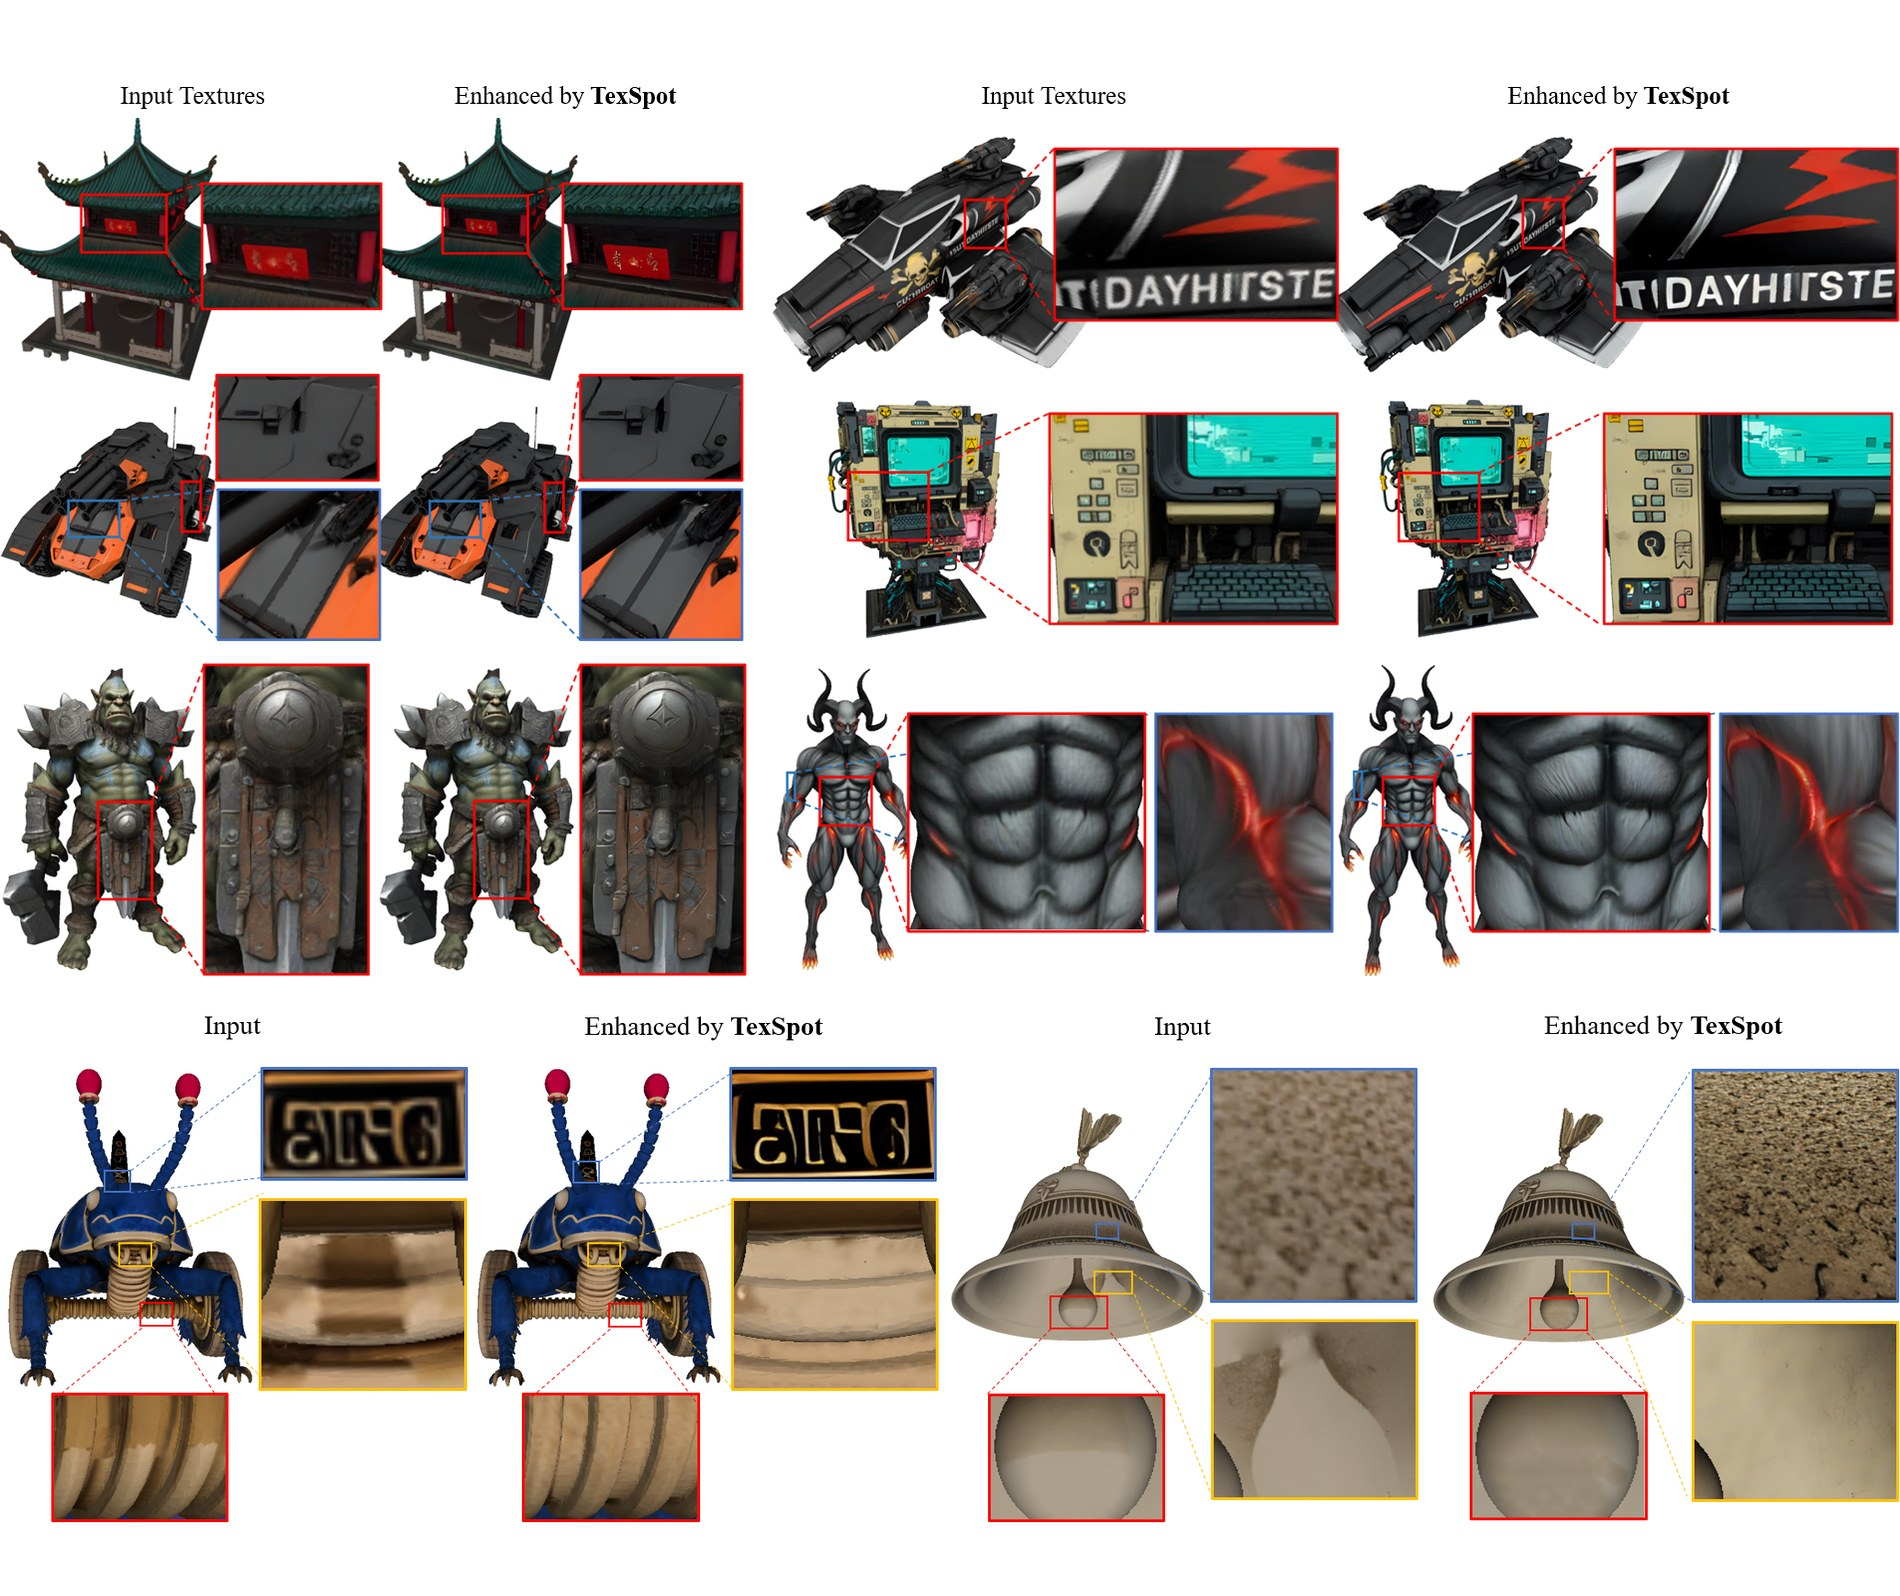
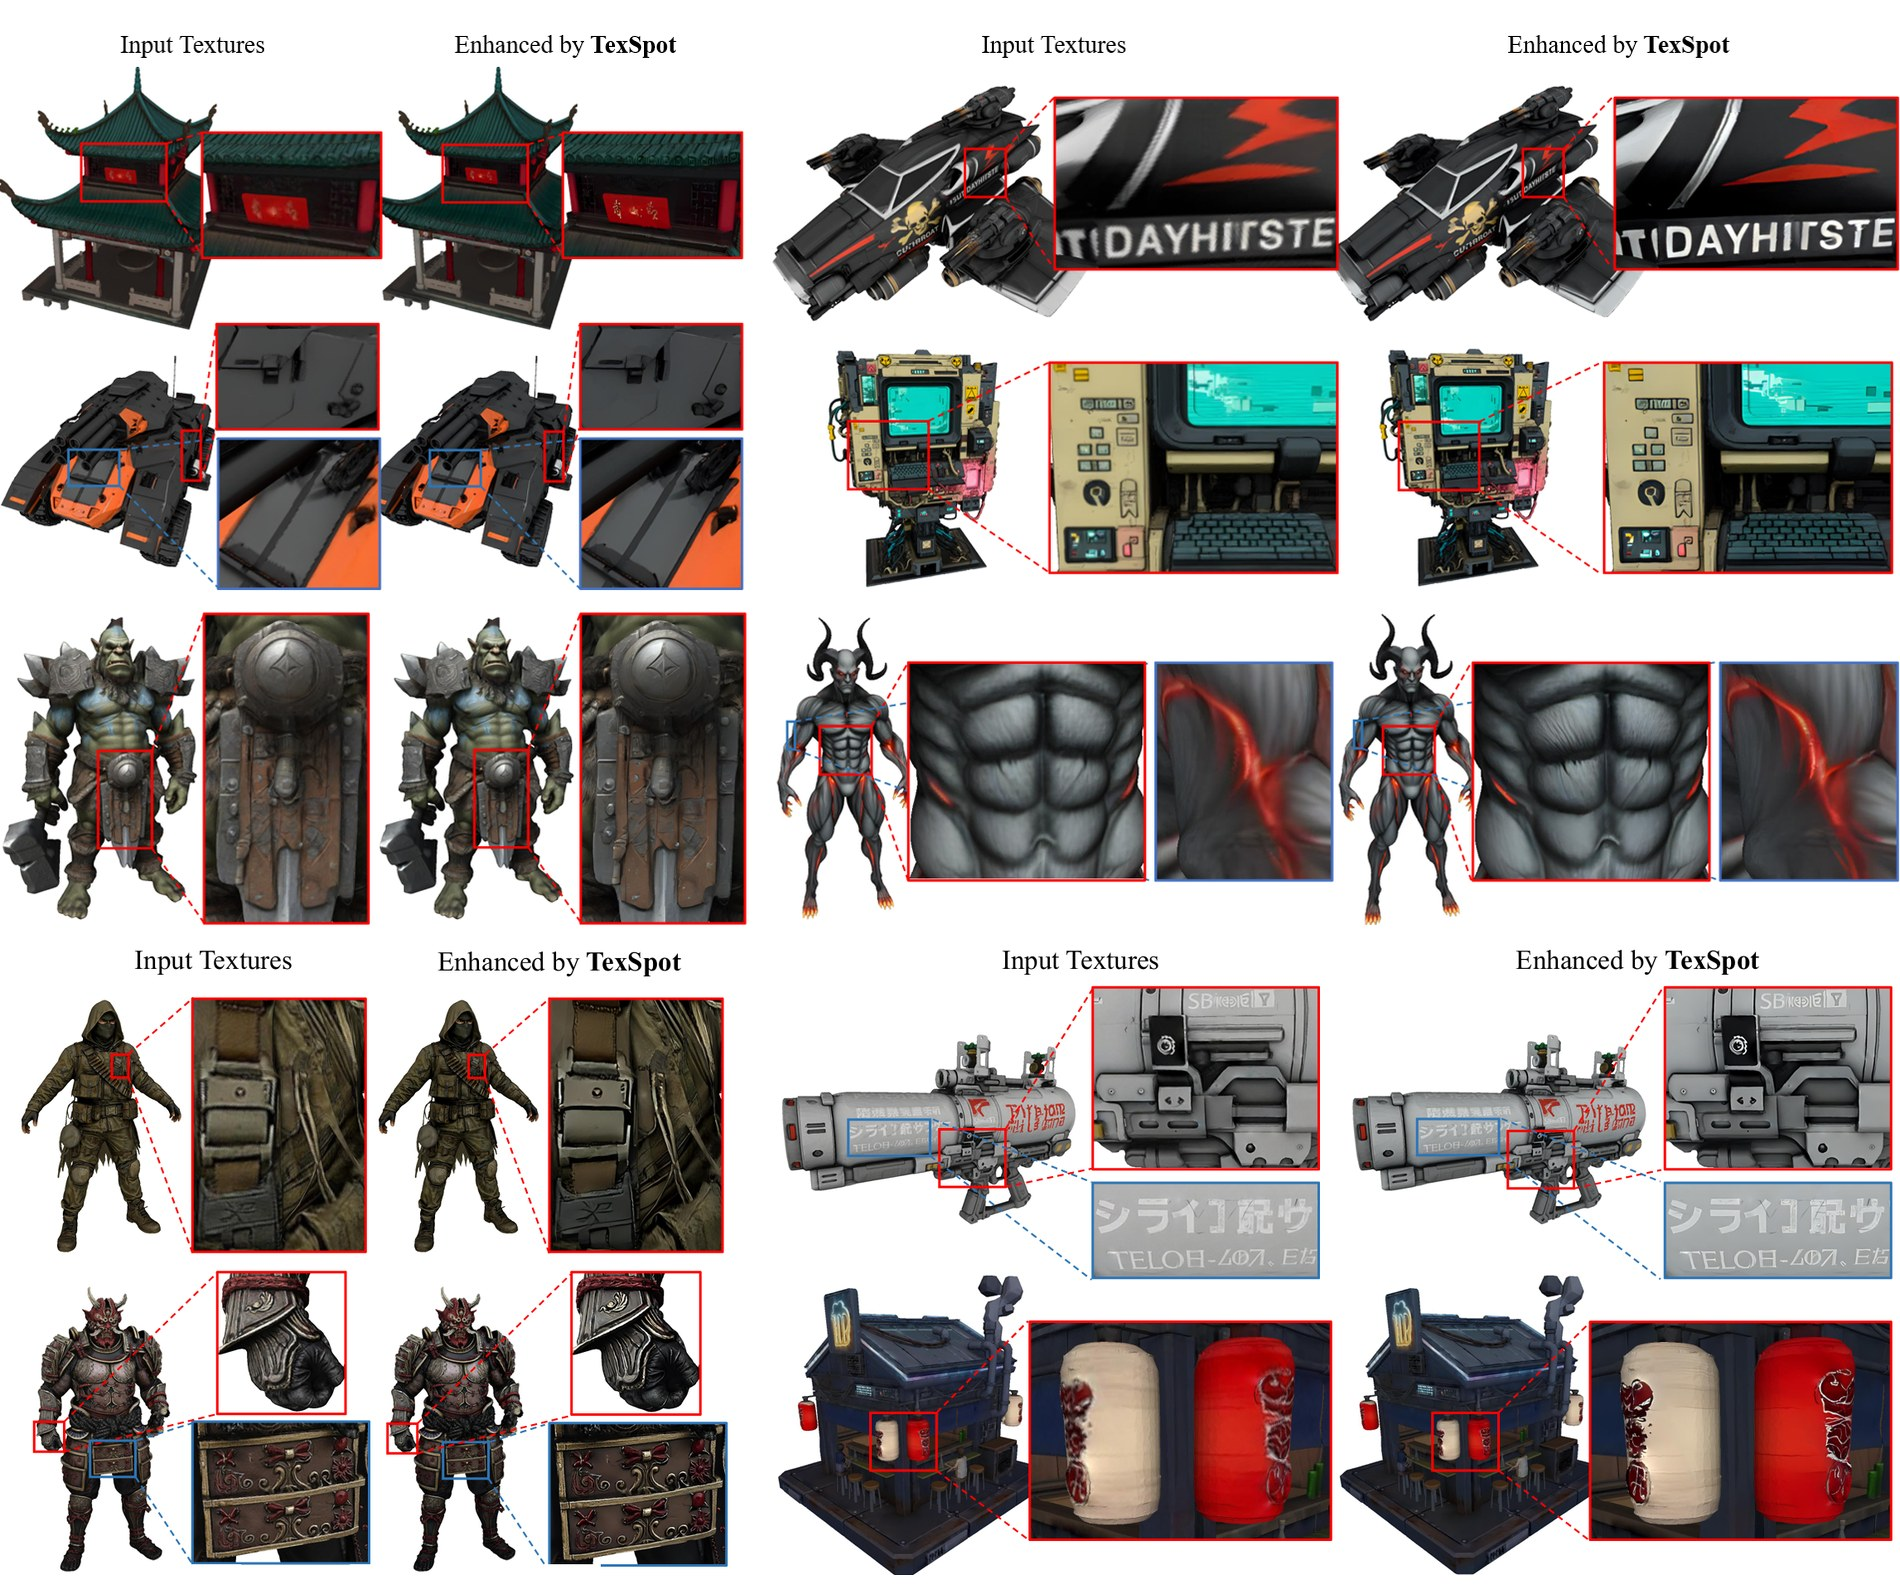
Rework results carousel: custom slider with visible arrows/dots, swap gen figures, drop VAE/comparison slides

diff --git a/index.html b/index.html
@@ -94,14 +94,12 @@
   <link rel="stylesheet" href="static/css/index.css">
   
   <!-- Non-critical CSS - Load asynchronously -->
-  <link rel="preload" href="static/css/bulma-carousel.min.css" as="style" onload="this.onload=null;this.rel='stylesheet'">
   <link rel="preload" href="static/css/bulma-slider.min.css" as="style" onload="this.onload=null;this.rel='stylesheet'">
   <link rel="preload" href="static/css/fontawesome.all.min.css" as="style" onload="this.onload=null;this.rel='stylesheet'">
   <link rel="preload" href="https://cdn.jsdelivr.net/gh/jpswalsh/academicons@1/css/academicons.min.css" as="style" onload="this.onload=null;this.rel='stylesheet'">
   
   <!-- Fallback for browsers that don't support preload -->
   <noscript>
-    <link rel="stylesheet" href="static/css/bulma-carousel.min.css">
     <link rel="stylesheet" href="static/css/bulma-slider.min.css">
     <link rel="stylesheet" href="static/css/fontawesome.all.min.css">
     <link rel="stylesheet" href="https://cdn.jsdelivr.net/gh/jpswalsh/academicons@1/css/academicons.min.css">
@@ -112,7 +110,6 @@
   
   <!-- Defer non-critical JavaScript -->
   <script defer src="static/js/fontawesome.all.min.js"></script>
-  <script defer src="static/js/bulma-carousel.min.js"></script>
   <script defer src="static/js/bulma-slider.min.js"></script>
   <script defer src="static/js/index.js"></script>
   
@@ -298,44 +295,32 @@
 <section class="hero is-small">
   <div class="hero-body">
     <div class="container">
-      <div id="results-carousel" class="carousel results-carousel">
-        <div class="item">
-          <img src="static/images/vae.jpg" alt="VAE reconstruction results compared with ground-truth textures" loading="lazy"/>
+      <div id="results-carousel" class="results-carousel" role="region" aria-roledescription="carousel" aria-label="In-the-wild texture enhancement results">
+        <div class="item" role="group" aria-roledescription="slide" aria-label="1 of 5">
+          <img src="static/images/inthewild_gen_1.jpg" alt="Texture enhancement on 3D assets generated by commercial models" loading="eager"/>
           <h2 class="subtitle has-text-centered">
-            Visualization of texture reconstruction results by our VAE, with comparisons with ground truth (input) textures.
+            In-the-wild texture enhancement on textured 3D assets generated by commercial models.
           </h2>
         </div>
-        <div class="item">
-          <img src="static/images/comp_sr.jpg" alt="Qualitative comparison with state-of-the-art 3D texture super-resolution methods" loading="lazy"/>
+        <div class="item" role="group" aria-roledescription="slide" aria-label="2 of 5">
+          <img src="static/images/inthewild_gen_2.jpg" alt="Texture enhancement on multi-view diffusion results" loading="lazy"/>
           <h2 class="subtitle has-text-centered">
-            Qualitative comparison with state-of-the-art methods on 3D texture super-resolution. TexSpot achieves the best texture quality and global consistency. PBR-SR shown here is our re-implemented version.
+            Texture enhancement on multi-view diffusion results. TexSpot improves mild or local artifacts while significantly enhancing local texture fidelity.
           </h2>
         </div>
-        <div class="item">
-          <img src="static/images/inthewild_gen_1.jpg" alt="Texture enhancement on generated 3D assets, part 1" loading="lazy"/>
-          <h2 class="subtitle has-text-centered">
-            In-the-wild texture enhancement on generated 3D assets, including meshes from commercial models and multi-view diffusion results.
-          </h2>
-        </div>
-        <div class="item">
-          <img src="static/images/inthewild_gen_2.jpg" alt="Texture enhancement on generated 3D assets, part 2" loading="lazy"/>
-          <h2 class="subtitle has-text-centered">
-            More texture enhancement results on generated 3D assets from commercial models and multi-view diffusion.
-          </h2>
-        </div>
-        <div class="item">
+        <div class="item" role="group" aria-roledescription="slide" aria-label="3 of 5">
           <img src="static/images/inthewild_recon.jpg" alt="Texture enhancement on reconstructed objects" loading="lazy"/>
           <h2 class="subtitle has-text-centered">
             In-the-wild texture enhancement on reconstructed objects with blurry, low-quality textures.
           </h2>
         </div>
-        <div class="item">
+        <div class="item" role="group" aria-roledescription="slide" aria-label="4 of 5">
           <img src="static/images/inthewild_scene_1.jpg" alt="Texture enhancement on reconstructed scenes, part 1" loading="lazy"/>
           <h2 class="subtitle has-text-centered">
             In-the-wild texture enhancement on indoor and outdoor scenes.
           </h2>
         </div>
-        <div class="item">
+        <div class="item" role="group" aria-roledescription="slide" aria-label="5 of 5">
           <img src="static/images/inthewild_scene_2.jpg" alt="Texture enhancement on reconstructed scenes, part 2" loading="lazy"/>
           <h2 class="subtitle has-text-centered">
             More texture enhancement results on large-scale reconstructed scenes.

diff --git a/static/js/index.js b/static/js/index.js
@@ -119,22 +119,111 @@ function setupVideoCarouselAutoplay() {
     });
 }
 
+// Lightweight results carousel: arrows, dots, keyboard, swipe, autoplay.
+// Autoplay keeps running while the user is idle; any manual navigation
+// restarts the timer so the next auto-advance happens a full interval later.
+function setupResultsCarousel(root, interval) {
+    const items = Array.from(root.querySelectorAll(':scope > .item'));
+    if (items.length === 0) return;
+
+    // Build DOM: viewport > track > items
+    const viewport = document.createElement('div');
+    viewport.className = 'carousel-viewport';
+    const track = document.createElement('div');
+    track.className = 'carousel-track';
+    items.forEach(item => track.appendChild(item));
+    viewport.appendChild(track);
+    root.appendChild(viewport);
+
+    const icon = dir => '<svg viewBox="0 0 24 24" fill="none" stroke="currentColor" stroke-width="3" stroke-linecap="round" stroke-linejoin="round" aria-hidden="true"><polyline points="' +
+        (dir === 'prev' ? '15 18 9 12 15 6' : '9 18 15 12 9 6') + '"/></svg>';
+    const makeArrow = (dir, label) => {
+        const b = document.createElement('button');
+        b.type = 'button';
+        b.className = 'carousel-arrow ' + dir;
+        b.setAttribute('aria-label', label);
+        b.innerHTML = icon(dir);
+        root.appendChild(b);
+        return b;
+    };
+    const prevBtn = makeArrow('prev', 'Previous slide');
+    const nextBtn = makeArrow('next', 'Next slide');
+
+    const dotsWrap = document.createElement('div');
+    dotsWrap.className = 'carousel-dots';
+    const dots = items.map((_, i) => {
+        const d = document.createElement('button');
+        d.type = 'button';
+        d.className = 'carousel-dot';
+        d.setAttribute('aria-label', 'Go to slide ' + (i + 1));
+        d.addEventListener('click', () => { goTo(i); restart(); });
+        dotsWrap.appendChild(d);
+        return d;
+    });
+    root.appendChild(dotsWrap);
+
+    let index = 0;
+    let timer = null;
+
+    function goTo(i) {
+        index = (i + items.length) % items.length;
+        track.style.transform = 'translateX(' + (-100 * index) + '%)';
+        dots.forEach((d, k) => {
+            const active = k === index;
+            d.classList.toggle('is-active', active);
+            if (active) d.setAttribute('aria-current', 'true');
+            else d.removeAttribute('aria-current');
+        });
+        items.forEach((it, k) => it.setAttribute('aria-hidden', k === index ? 'false' : 'true'));
+    }
+
+    function stop() {
+        if (timer) { clearInterval(timer); timer = null; }
+    }
+    function start() {
+        stop();
+        if (!document.hidden) timer = setInterval(() => goTo(index + 1), interval);
+    }
+    const restart = start;
+
+    prevBtn.addEventListener('click', () => { goTo(index - 1); restart(); });
+    nextBtn.addEventListener('click', () => { goTo(index + 1); restart(); });
+
+    root.setAttribute('tabindex', '0');
+    root.addEventListener('keydown', e => {
+        if (e.key === 'ArrowLeft') { goTo(index - 1); restart(); }
+        else if (e.key === 'ArrowRight') { goTo(index + 1); restart(); }
+    });
+
+    // Touch swipe
+    let startX = null;
+    viewport.addEventListener('touchstart', e => { startX = e.touches[0].clientX; stop(); }, { passive: true });
+    viewport.addEventListener('touchend', e => {
+        if (startX !== null) {
+            const dx = e.changedTouches[0].clientX - startX;
+            if (Math.abs(dx) > 40) goTo(index + (dx < 0 ? 1 : -1));
+        }
+        startX = null;
+        restart();
+    });
+
+    // Pause when the tab is hidden, resume when visible
+    document.addEventListener('visibilitychange', () => { document.hidden ? stop() : start(); });
+
+    goTo(0);
+    start();
+}
+
 // Initialize without depending on jQuery (CDN may be blocked in some regions)
 function initPage() {
 
-    var options = {
-		slidesToScroll: 1,
-		slidesToShow: 1,
-		loop: true,
-		infinite: true,
-		autoplay: true,
-		autoplaySpeed: 5000,
-    }
+    document.querySelectorAll('.results-carousel').forEach(function (el) {
+        setupResultsCarousel(el, 5000);
+    });
 
-	// Initialize all div with carousel class
-    var carousels = bulmaCarousel.attach('.carousel', options);
-	
-    bulmaSlider.attach();
+    if (typeof bulmaSlider !== 'undefined') {
+        bulmaSlider.attach();
+    }
     
     // Setup video autoplay for carousel
     setupVideoCarouselAutoplay();

diff --git a/static/css/index.css b/static/css/index.css
@@ -253,30 +253,37 @@ body {
   box-shadow: var(--shadow-lg);
 }
 
+/* Results carousel (custom, no external dependency) */
 .results-carousel {
+  position: relative;
+  padding: 1rem 3.5rem 0;
+}
+
+.results-carousel .carousel-viewport {
   overflow: hidden;
-  padding: 1rem 0;
+  border-radius: var(--border-radius-lg);
+}
+
+.results-carousel .carousel-track {
+  display: flex;
+  transition: transform 0.6s cubic-bezier(0.4, 0, 0.2, 1);
+  will-change: transform;
 }
 
 .results-carousel .item {
-  margin: 1rem;
-  overflow: hidden;
+  flex: 0 0 100%;
+  min-width: 0;
+  box-sizing: border-box;
   padding: 1.5rem;
   font-size: 0;
   background: var(--background-primary);
   border-radius: var(--border-radius-lg);
-  box-shadow: var(--shadow-md);
-  transition: var(--transition);
   border: 1px solid var(--border-color);
-}
-
-.results-carousel .item:hover {
-  transform: translateY(-4px);
-  box-shadow: var(--shadow-lg);
 }
 
 .results-carousel .item img,
 .results-carousel video {
+  display: block;
   margin: 0;
   border-radius: var(--border-radius);
   width: 100%;
@@ -290,16 +297,85 @@ body {
   font-weight: 500;
 }
 
-/* Pagination and Misc Improvements */
-.slider-pagination .slider-page {
-  background: var(--primary-color);
+/* Prev / next arrows */
+.carousel-arrow {
+  position: absolute;
+  top: calc(50% - 1.5rem);
+  transform: translateY(-50%);
+  z-index: 2;
+  display: flex;
+  align-items: center;
+  justify-content: center;
+  width: 56px;
+  height: 56px;
+  padding: 0;
+  border: none;
   border-radius: 50%;
-  transition: var(--transition);
+  background: rgba(30, 41, 59, 0.85);
+  color: #fff;
+  box-shadow: 0 4px 14px rgba(0, 0, 0, 0.3);
+  cursor: pointer;
+  transition: background 0.2s, transform 0.2s;
 }
 
-.slider-pagination .slider-page.is-active {
-  background: var(--primary-hover);
-  transform: scale(1.2);
+.carousel-arrow svg {
+  width: 26px;
+  height: 26px;
+}
+
+.carousel-arrow:hover {
+  background: var(--primary-color);
+  transform: translateY(-50%) scale(1.1);
+}
+
+.carousel-arrow:focus-visible,
+.carousel-dot:focus-visible {
+  outline: 3px solid var(--accent-color);
+  outline-offset: 3px;
+}
+
+.carousel-arrow.prev { left: 0; }
+.carousel-arrow.next { right: 0; }
+
+/* Pagination dots */
+.carousel-dots {
+  display: flex;
+  justify-content: center;
+  gap: 12px;
+  padding: 1.25rem 0 0.5rem;
+}
+
+.carousel-dot {
+  width: 12px;
+  height: 12px;
+  padding: 0;
+  border: none;
+  border-radius: 50%;
+  background: #94a3b8;
+  cursor: pointer;
+  transition: background 0.2s, transform 0.2s;
+}
+
+.carousel-dot:hover {
+  background: #64748b;
+}
+
+.carousel-dot.is-active {
+  background: var(--primary-color);
+  transform: scale(1.35);
+}
+
+@media (prefers-reduced-motion: reduce) {
+  .results-carousel .carousel-track { transition: none; }
+}
+
+@media screen and (max-width: 768px) {
+  .results-carousel { padding: 0.5rem 0 0; }
+  .results-carousel .item { padding: 0.75rem; }
+  .carousel-arrow { width: 42px; height: 42px; }
+  .carousel-arrow svg { width: 20px; height: 20px; }
+  .carousel-arrow.prev { left: 0.25rem; }
+  .carousel-arrow.next { right: 0.25rem; }
 }
 
 .eql-cntrb { 
@@ -640,11 +716,6 @@ code {
     right: -1rem;
     bottom: calc(100% + 0.5rem);
     top: auto;
-  }
-  
-  .results-carousel .item {
-    margin: 0.5rem;
-    padding: 1rem;
   }
   
   .teaser .hero-body {
